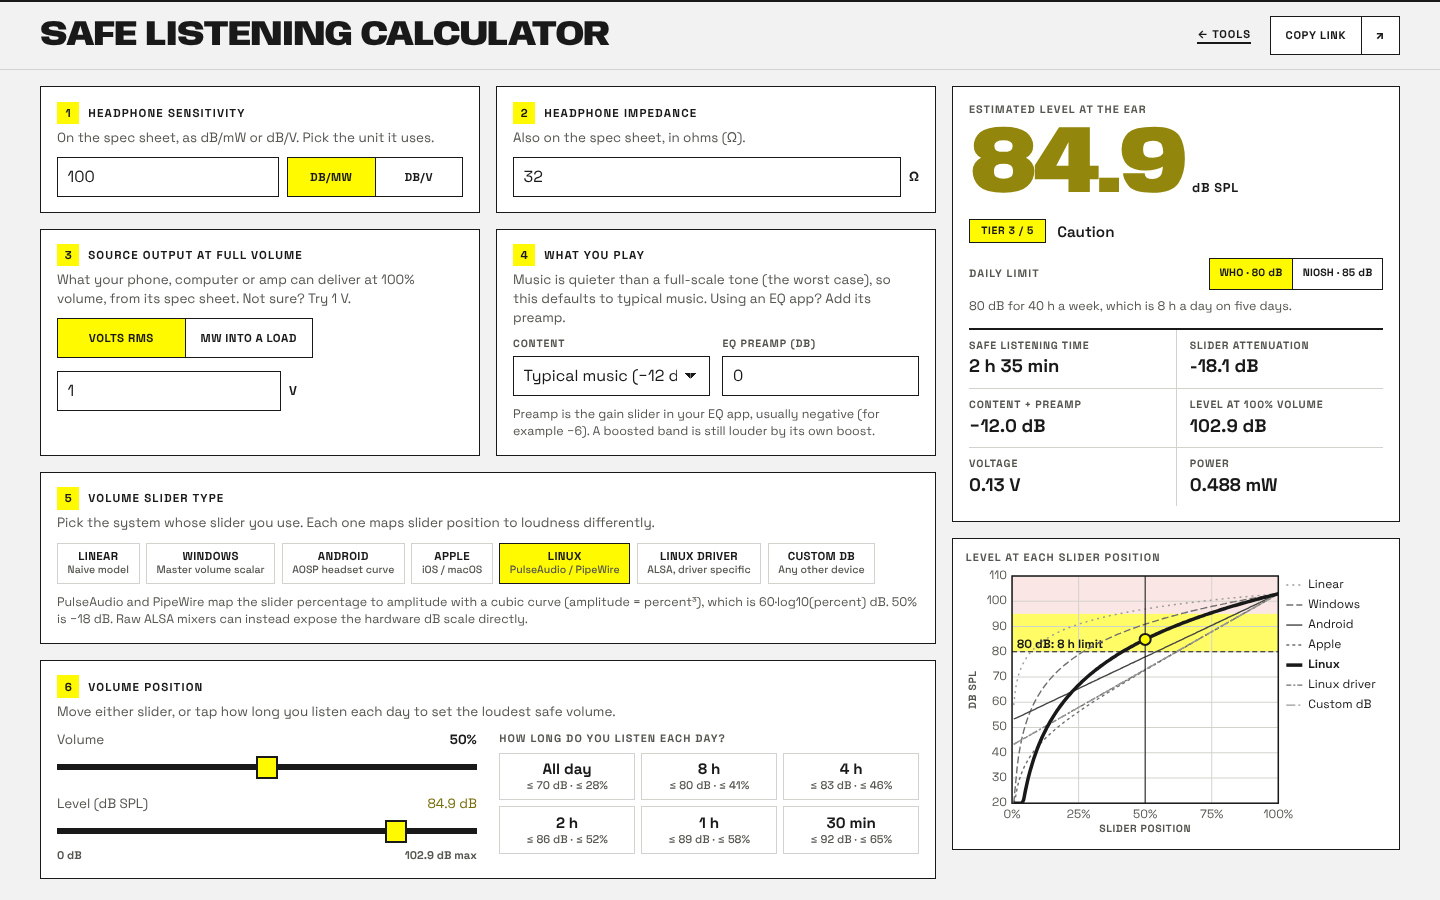
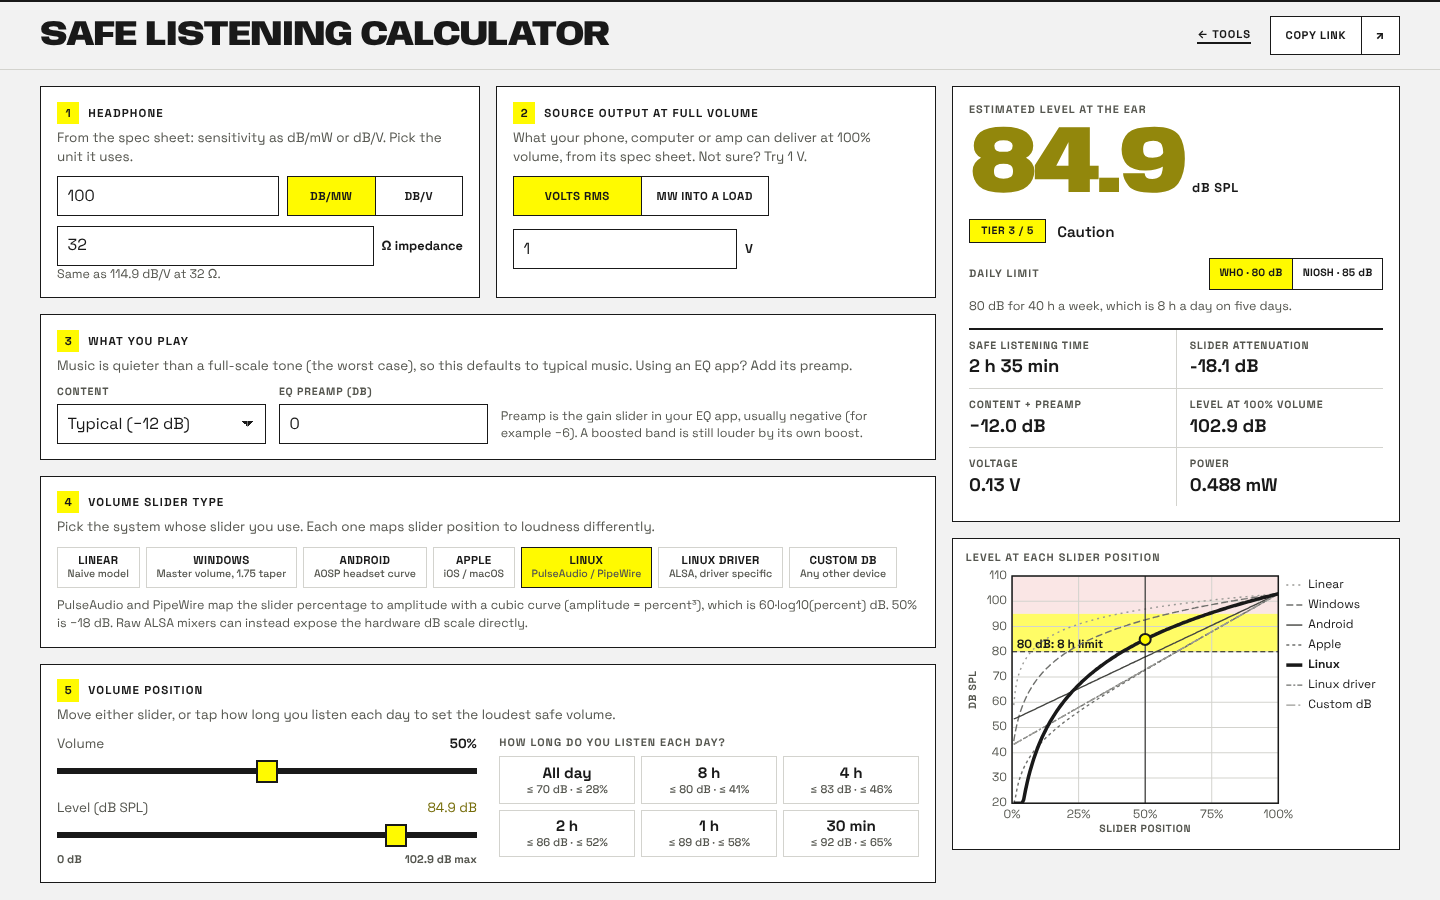
Sync Safe Listening Calculator: merged headphone step

Changed region(s): [[0.0312, 0.1244, 0.6562, 0.9644]]

diff --git a/public/tools/safe-listening/index.html b/public/tools/safe-listening/index.html
@@ -30,8 +30,8 @@
   <main class="layout">
     <form class="inputs" id="form" autocomplete="off" onsubmit="return false">
       <section class="card">
-        <h2><i>1</i> Headphone sensitivity</h2>
-        <p class="help">On the spec sheet, as dB/mW or dB/V. Pick the unit it uses.</p>
+        <h2><i>1</i> Headphone</h2>
+        <p class="help">From the spec sheet: sensitivity as dB/mW or dB/V. Pick the unit it uses.</p>
         <div class="row sens-row">
           <input id="sens" type="number" inputmode="decimal" step="0.1" min="40" max="140" value="100" aria-label="Sensitivity">
           <div class="toggle" role="group" aria-label="Sensitivity unit">
@@ -39,17 +39,14 @@
             <button type="button" data-unit="v" aria-pressed="false">dB/V</button>
           </div>
         </div>
-      </section>
-      <section class="card">
-        <h2><i>2</i> Headphone impedance</h2>
-        <p class="help">Also on the spec sheet, in ohms (Ω).</p>
-        <div class="row">
+        <div class="row mt" id="imp-row">
           <input id="imp" type="number" inputmode="decimal" step="1" min="1" max="2000" value="32" aria-label="Impedance in ohms">
-          <span class="unit">Ω</span>
+          <span class="unit">Ω impedance</span>
         </div>
+        <p class="note" id="sens-note"></p>
       </section>
       <section class="card">
-        <h2><i>3</i> Source output at full volume</h2>
+        <h2><i>2</i> Source output at full volume</h2>
         <p class="help">What your phone, computer or amp can deliver at 100% volume, from its spec sheet. Not sure? Try 1 V.</p>
         <div class="row wrap">
           <div class="toggle" role="group" aria-label="Output form">
@@ -69,8 +66,8 @@
         </div>
         <p class="note" id="derived-v"></p>
       </section>
-      <section class="card">
-        <h2><i>4</i> What you play</h2>
+      <section class="card span-2">
+        <h2><i>3</i> What you play</h2>
         <p class="help">Music is quieter than a full-scale tone (the worst case), so this defaults to typical music. Using an EQ app? Add its preamp.</p>
         <div class="row two">
           <label class="field">
@@ -86,11 +83,11 @@
             <span>EQ preamp (dB)</span>
             <input id="preamp" type="number" inputmode="decimal" step="0.5" min="-30" max="20" value="0" aria-label="EQ preamp in decibels">
           </label>
+          <p class="note row-note">Preamp is the gain slider in your EQ app, usually negative (for example −6). A boosted band is still louder by its own boost.</p>
         </div>
-        <p class="note">Preamp is the gain slider in your EQ app, usually negative (for example −6). A boosted band is still louder by its own boost.</p>
       </section>
       <section class="card span-2">
-        <h2><i>5</i> Volume slider type</h2>
+        <h2><i>4</i> Volume slider type</h2>
         <p class="help">Pick the system whose slider you use. Each one maps slider position to loudness differently.</p>
         <div class="filter" id="curve-buttons" role="group" aria-label="Volume slider type"></div>
         <div class="mt" id="range-field" hidden>
@@ -100,7 +97,7 @@
         <p class="note curve-note" id="curve-note"></p>
       </section>
       <section class="card span-2">
-        <h2><i>6</i> Volume position</h2>
+        <h2><i>5</i> Volume position</h2>
         <p class="help">Move either slider, or tap how long you listen each day to set the loudest safe volume.</p>
         <div class="volume-grid">
         <div class="vol-sliders">

diff --git a/public/tools/safe-listening/app.js b/public/tools/safe-listening/app.js
@@ -250,6 +250,10 @@
       : state.curve === 'windows'
         ? 'Your audio device\'s minimum volume in dB, without the minus sign (it varies by driver). 63.5 comes from one Windows 11 device, so keep it if unsure.'
         : 'Check your device manual for its volume range in dB. 60 is common.';
+    $('imp-row').hidden = state.unit !== 'mw';
+    $('sens-note').textContent = state.unit === 'mw'
+      ? 'Same as ' + (state.sens + 10 * Math.log10(1000 / state.z)).toFixed(1) + ' dB/V at ' + state.z + ' Ω.'
+      : 'In dB/V the level depends only on the voltage, so impedance is not needed.';
     $('vout-field').hidden = state.srcMode !== 'v';
     $('pout-field').hidden = state.srcMode !== 'mw';
     $('derived-v').textContent = state.srcMode === 'mw'
@@ -278,7 +282,7 @@
     var full = calc(1).spl;
     $('spl-max').textContent = isFinite(full) ? full.toFixed(1) + ' dB' : '—';
     $('volts').textContent = r.volts >= 0.1 ? r.volts.toFixed(2) + ' V' : (r.volts * 1000).toFixed(1) + ' mV';
-    $('power').textContent = r.powerMw >= 1 ? r.powerMw.toFixed(1) + ' mW' : r.powerMw.toFixed(3) + ' mW';
+    $('power').textContent = state.unit !== 'mw' ? '—' : r.powerMw >= 1 ? r.powerMw.toFixed(1) + ' mW' : r.powerMw.toFixed(3) + ' mW';
     $('curve-note').textContent = curve.note + (curve.approx ? ' (Approximation.)' : '');
 
     drawChart(calc(1).spl);
@@ -318,11 +322,7 @@
       if (steps) state.pos = Math.round(state.pos * steps) / steps;
       render();
     } else if (b.dataset.unit && b.dataset.unit !== state.unit) {
-      // keep the same physical headphone when switching units
-      var perMw = SA.sensitivityPerMw(state.sens, state.unit, state.z);
       state.unit = b.dataset.unit;
-      state.sens = Math.round((state.unit === 'mw' ? perMw : perMw + 10 * Math.log10(1000 / state.z)) * 10) / 10;
-      $('sens').value = state.sens;
       render();
     } else if (b.dataset.srcmode && b.dataset.srcmode !== state.srcMode) {
       state.srcMode = b.dataset.srcmode; render();

diff --git a/public/tools/safe-listening/style.css b/public/tools/safe-listening/style.css
@@ -221,6 +221,9 @@ input[type="range"]::-moz-range-thumb { width: 1.2rem; height: 1.2rem; border: 2
 .credit a { border-bottom: 1px solid var(--line); }
 .credit a:hover { color: var(--ink); border-bottom-color: var(--ink); background: var(--signal); }
 @media (max-width: 44rem) { .credit { position: static; margin-top: .9rem; } }
+.row.two > .field { max-width: 20rem; }
+.row.two .row-note { flex: 2 1 0; align-self: end; margin: 0 0 .1rem; }
+@media (max-width: 44rem) { .row.two { flex-wrap: wrap; } .row.two .row-note { flex-basis: 100%; margin-top: .4rem; } }
 
 .back { margin-right: .4rem; font-size: .7rem; font-weight: 700; letter-spacing: .08em; text-transform: uppercase; border-bottom: 2px solid var(--ink); }
 .back:hover { background: var(--signal); }
